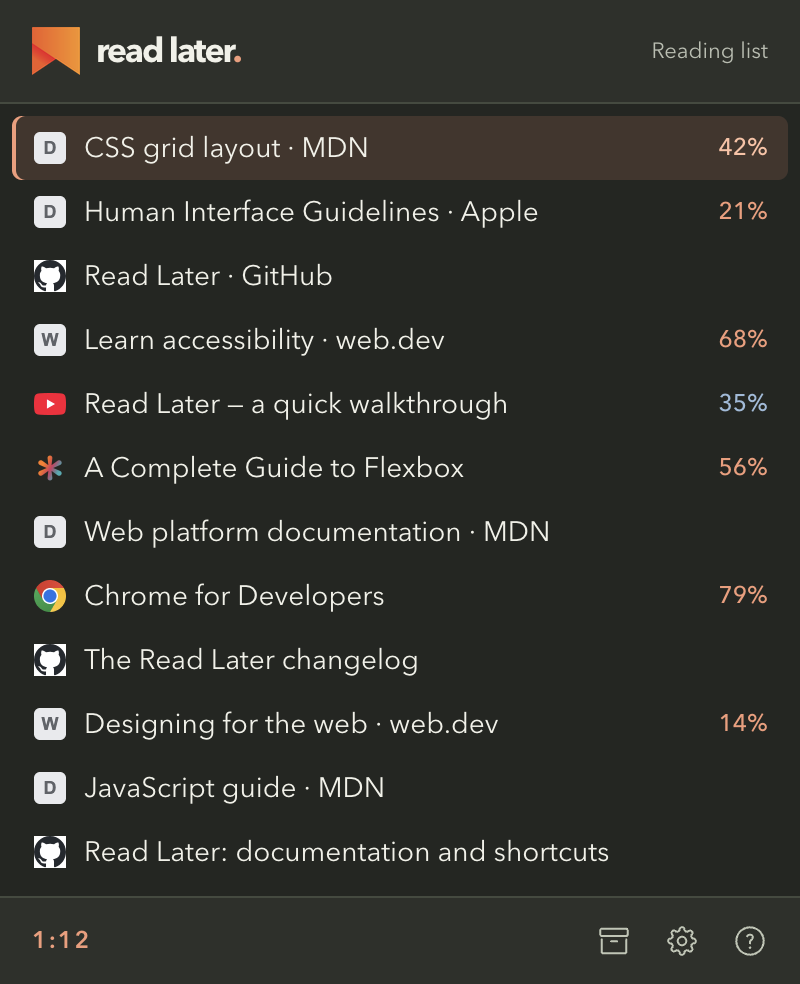
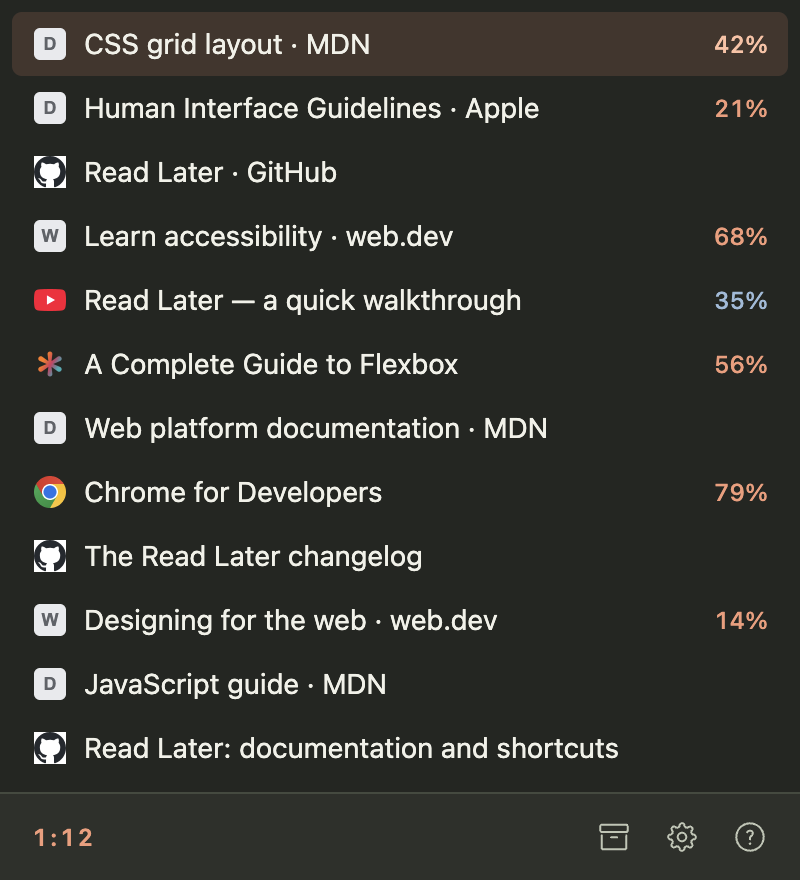
style: refresh compact popup screenshots

diff --git a/index.html b/index.html
@@ -66,7 +66,7 @@
             </div>
           </figcaption>
           <div class="product-crop">
-            <img id="product-screenshot" src="landing/images/read-later-light.png" width="800" height="984" fetchpriority="high" alt="Read Later in light appearance, showing saved pages, orange reading progress, blue video progress, and Archive, Options, and Help controls.">
+            <img id="product-screenshot" src="landing/images/read-later-light.png" width="800" height="880" fetchpriority="high" alt="Read Later in light appearance, showing saved pages, orange reading progress, blue video progress, and Archive, Options, and Help controls.">
           </div>
           <div class="product-caption">
             <span>Extension UI · example reads</span>

diff --git a/landing/images/README.md b/landing/images/README.md
@@ -6,7 +6,7 @@ example saved pages and isolated Chrome storage. They contain no personal
 reading-list data. The fixture loads the real popup HTML, CSS, and scripts.
 
 To refresh them, serve the repository root, open `/tests/product-preview.html`,
-and capture a 400 × 492 viewport at 2× device pixel ratio with the browser’s
+and capture a 400 × 440 viewport at 2× device pixel ratio with the browser’s
 color scheme set to light and then dark. Verify all icons have loaded and the
 whole popup fits before capturing. If the sample content or popup dimensions
 change, update the viewport and the image dimensions in `index.html` too.
